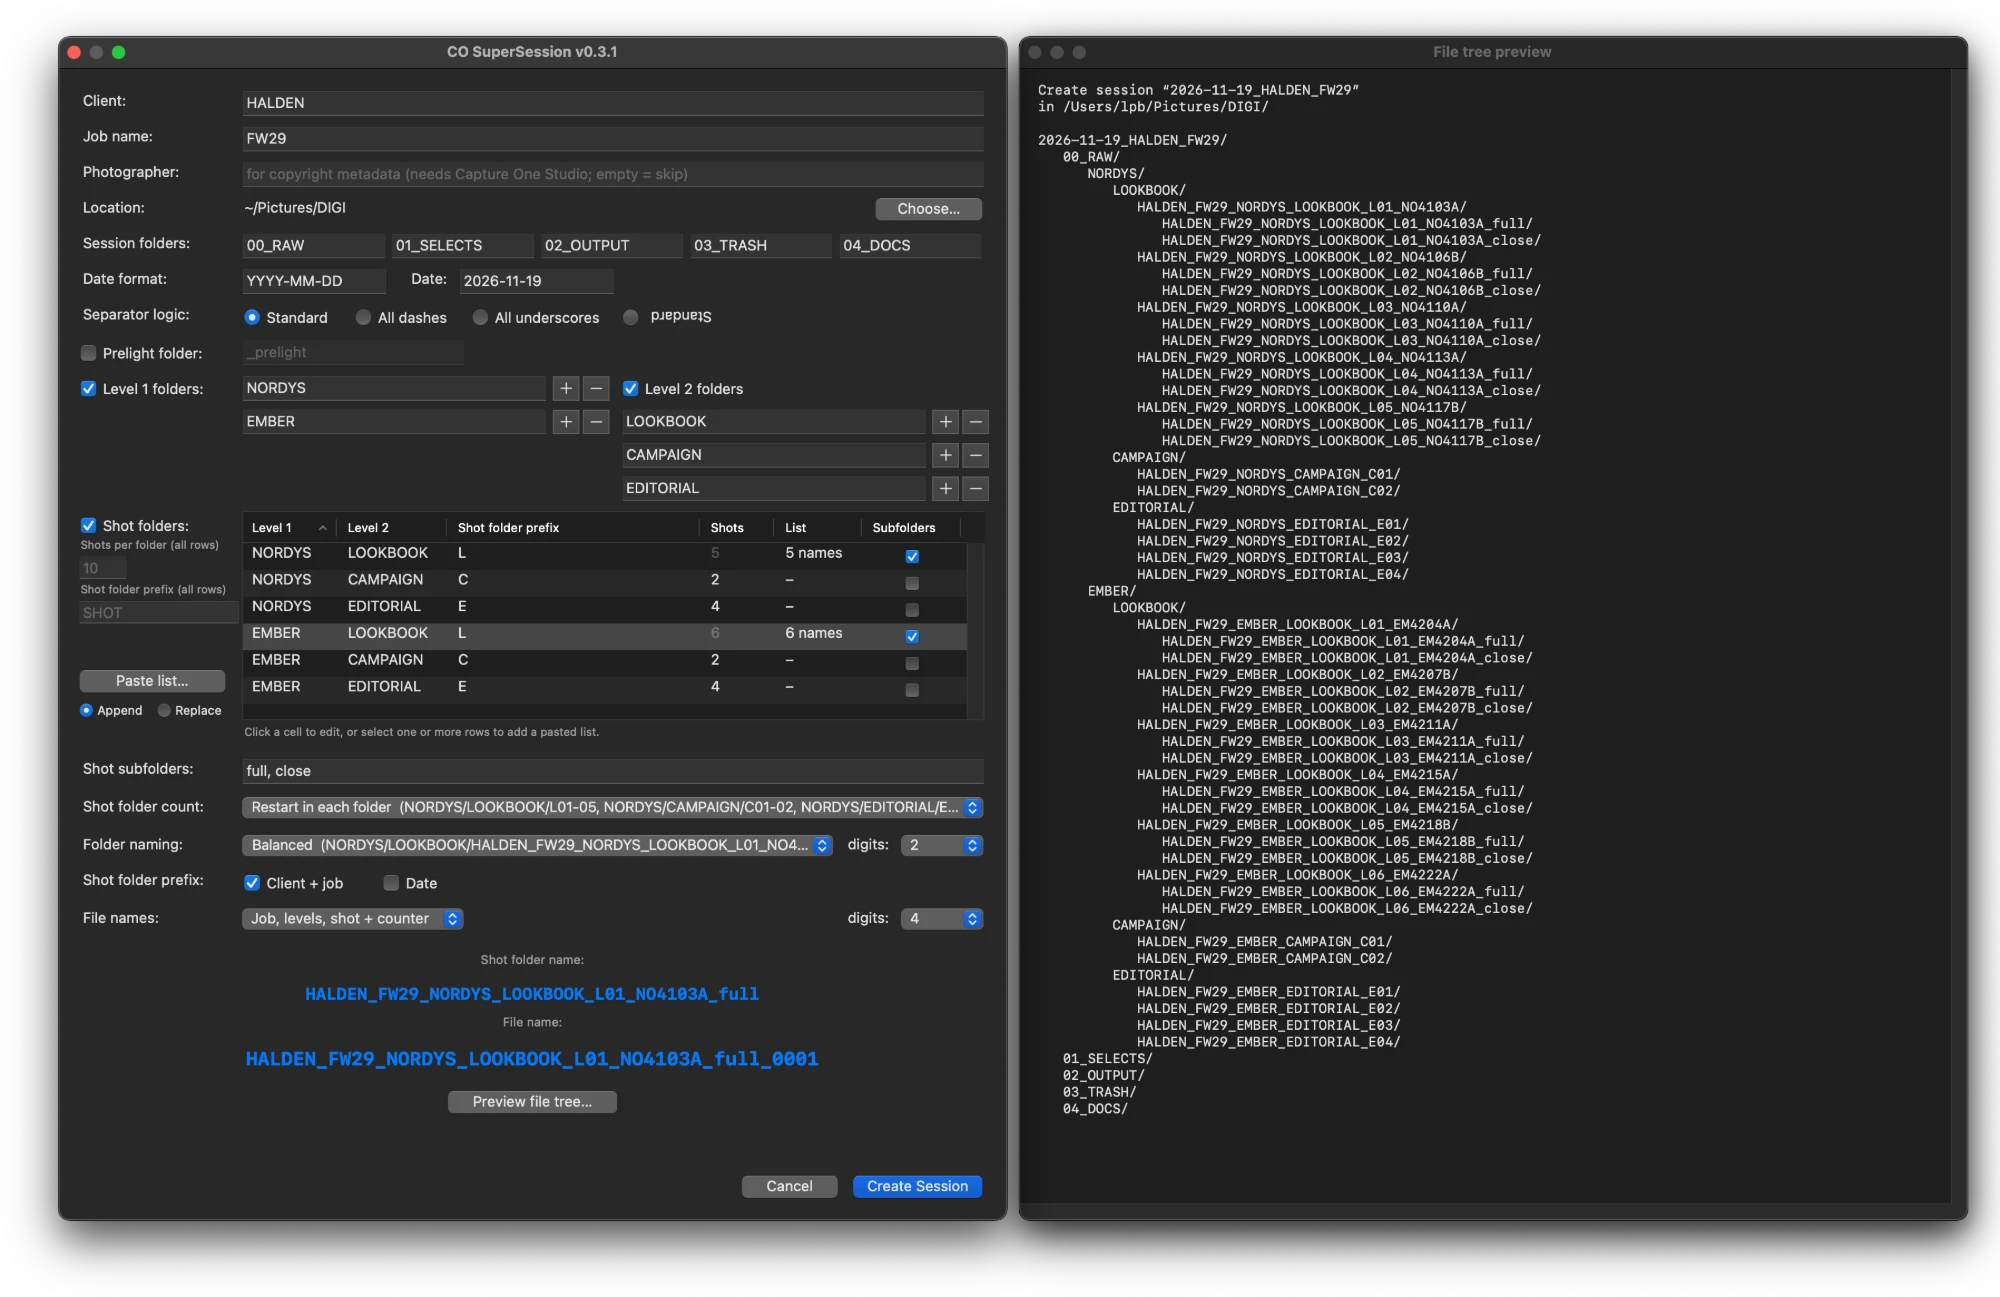
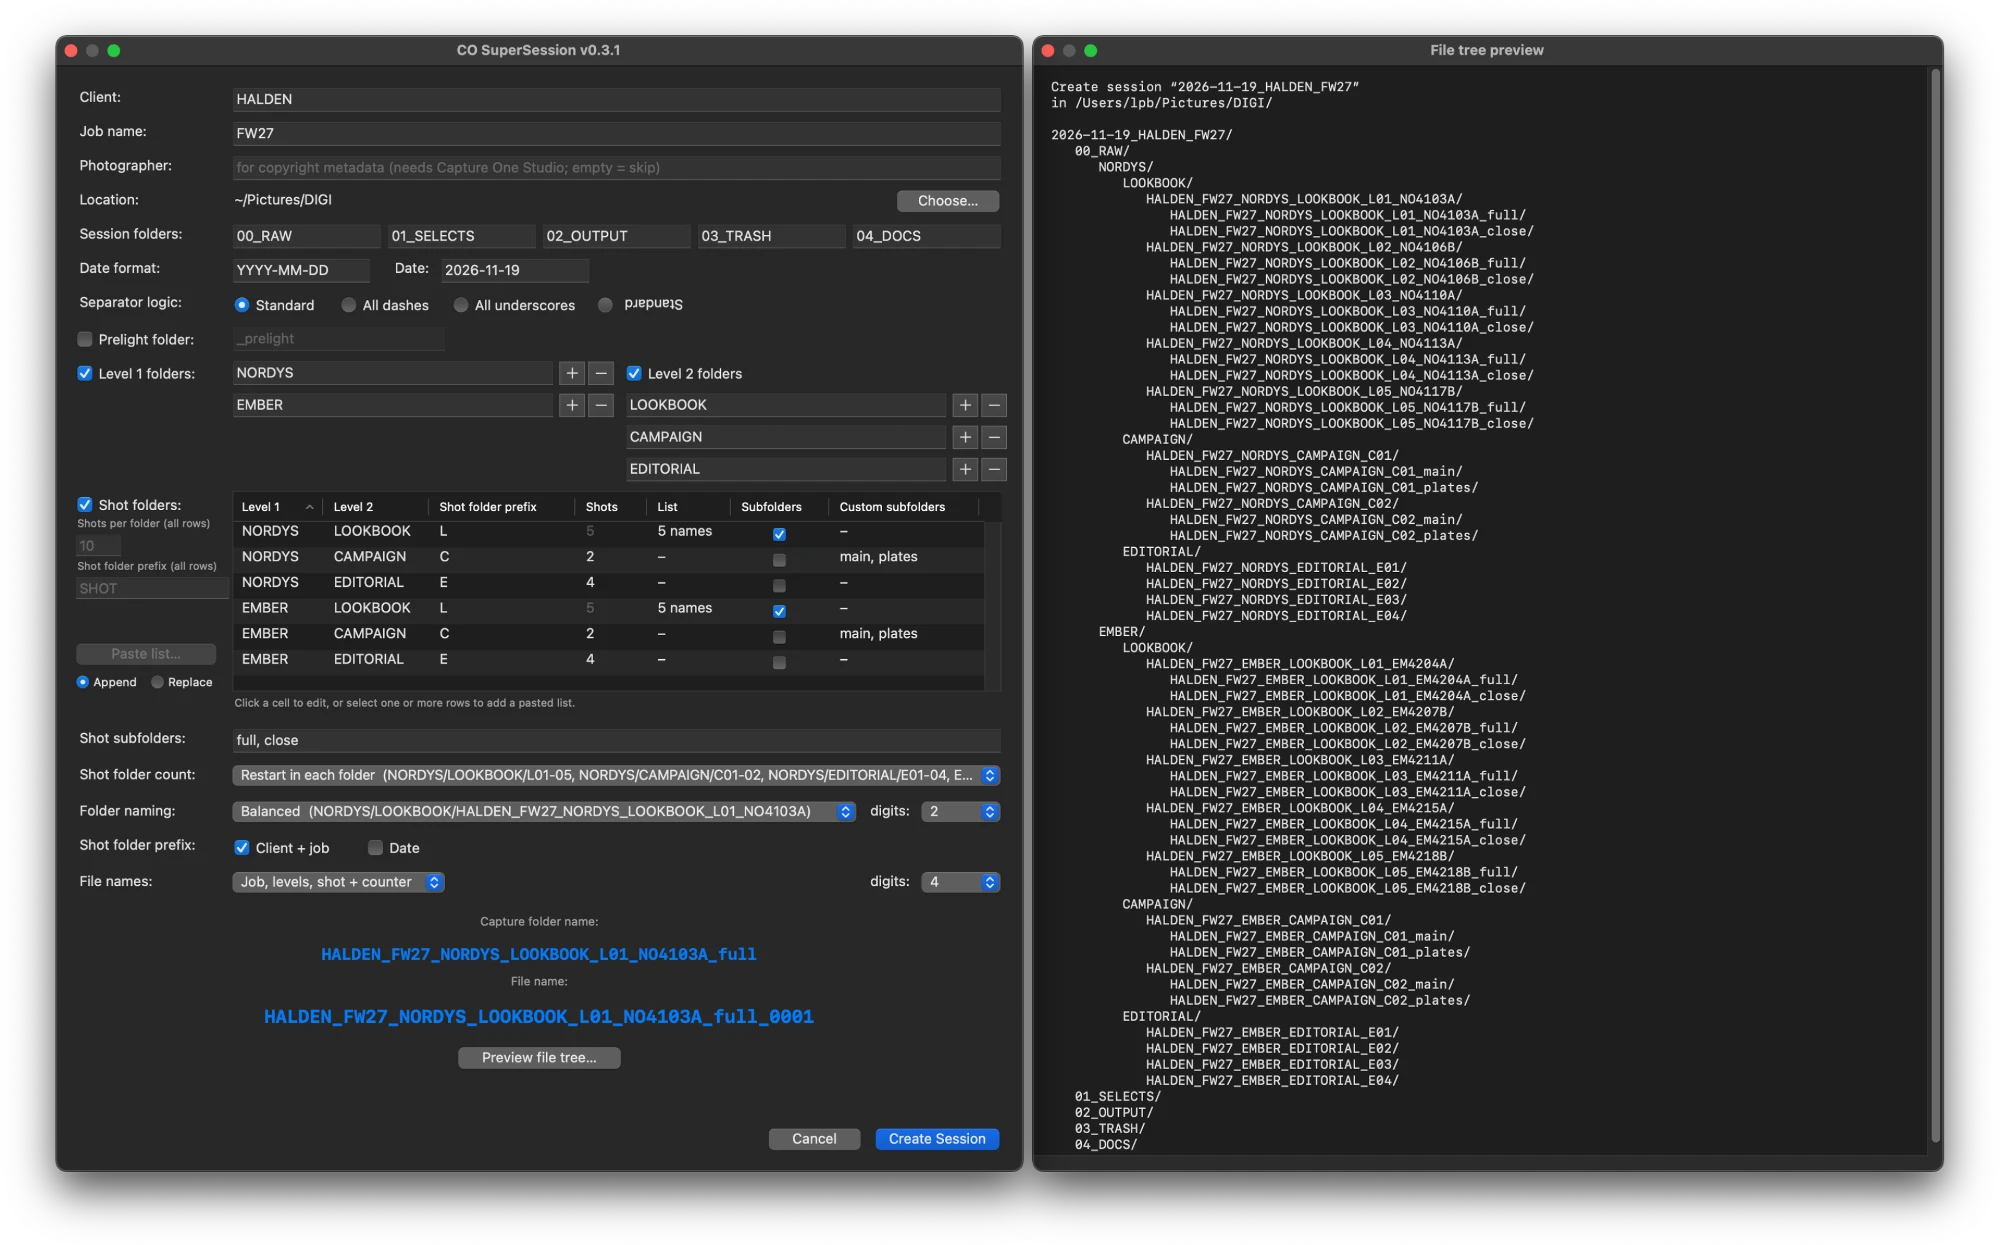
README: update fashion example and screenshot to current settings
- Campaign rows get main and plates custom subfolders
- Five Ember looks, job FW27, session dated 2026-11-19

diff --git a/README.md b/README.md
@@ -37,62 +37,70 @@ A two-day shoot for the lamp brand Lumara, with three key visuals (prefix KV) a 
 └── 04_DOCS/
 ```
 
-A fashion shoot can go a level deeper. Here the brand Halden shoots its FW29 season. It uses two collections, NORDYS and EMBER, as level 1 folders, with LOOKBOOK, CAMPAIGN and EDITORIAL as level 2 folders. The lookbook shots use the prefix L, the campaign shots C and the editorial shots E, and numbering restarts in each folder. The lookbook rows get a pasted list of SKU codes (Paste list, Append), so each look folder carries its SKU, and the number of codes sets the number of looks: five for Nordys, six for Ember. Only the lookbook rows have Subfolders ticked, so each look gets a full and a close subfolder. There is no prelight folder. Folder naming is Balanced with the Shot folder prefix (client + job): the level 1 and level 2 folders keep short names, and each shot folder, and so every capture in it, carries the client, job, collection and level 2 folder. File names use Job, levels, shot + counter:
+A fashion shoot can go a level deeper. Here the brand Halden shoots its FW27 season. It uses two collections, NORDYS and EMBER, as level 1 folders, with LOOKBOOK, CAMPAIGN and EDITORIAL as level 2 folders. The lookbook shots use the prefix L, the campaign shots C and the editorial shots E, and numbering restarts in each folder. The lookbook rows get a pasted list of SKU codes (Paste list, Append), so each look folder carries its SKU, and the number of codes sets the number of looks: five for each collection. Only the lookbook rows have Subfolders ticked, so each look gets a full and a close subfolder. The campaign rows have Custom subfolders instead, so each campaign shot gets a main and a plates subfolder. There is no prelight folder. Folder naming is Balanced with the Shot folder prefix (client + job): the level 1 and level 2 folders keep short names, and each shot folder, and so every capture in it, carries the client, job, collection and level 2 folder. File names use Job, levels, shot + counter:
 
 ```
-2029-02-15_HALDEN_FW29/
+2026-11-19_HALDEN_FW27/
 ├── 00_RAW/
 │   ├── NORDYS/
 │   │   ├── LOOKBOOK/
-│   │   │   ├── HALDEN_FW29_NORDYS_LOOKBOOK_L01_NO4103A/
-│   │   │   │   ├── HALDEN_FW29_NORDYS_LOOKBOOK_L01_NO4103A_full/
-│   │   │   │   └── HALDEN_FW29_NORDYS_LOOKBOOK_L01_NO4103A_close/
-│   │   │   ├── HALDEN_FW29_NORDYS_LOOKBOOK_L02_NO4106B/
-│   │   │   │   ├── HALDEN_FW29_NORDYS_LOOKBOOK_L02_NO4106B_full/
-│   │   │   │   └── HALDEN_FW29_NORDYS_LOOKBOOK_L02_NO4106B_close/
-│   │   │   ├── HALDEN_FW29_NORDYS_LOOKBOOK_L03_NO4110A/
-│   │   │   │   ├── HALDEN_FW29_NORDYS_LOOKBOOK_L03_NO4110A_full/
-│   │   │   │   └── HALDEN_FW29_NORDYS_LOOKBOOK_L03_NO4110A_close/
-│   │   │   ├── HALDEN_FW29_NORDYS_LOOKBOOK_L04_NO4113A/
-│   │   │   │   ├── HALDEN_FW29_NORDYS_LOOKBOOK_L04_NO4113A_full/
-│   │   │   │   └── HALDEN_FW29_NORDYS_LOOKBOOK_L04_NO4113A_close/
-│   │   │   └── HALDEN_FW29_NORDYS_LOOKBOOK_L05_NO4117B/
-│   │   │       ├── HALDEN_FW29_NORDYS_LOOKBOOK_L05_NO4117B_full/
-│   │   │       └── HALDEN_FW29_NORDYS_LOOKBOOK_L05_NO4117B_close/
+│   │   │   ├── HALDEN_FW27_NORDYS_LOOKBOOK_L01_NO4103A/
+│   │   │   │   ├── HALDEN_FW27_NORDYS_LOOKBOOK_L01_NO4103A_full/
+│   │   │   │   └── HALDEN_FW27_NORDYS_LOOKBOOK_L01_NO4103A_close/
+│   │   │   ├── HALDEN_FW27_NORDYS_LOOKBOOK_L02_NO4106B/
+│   │   │   │   ├── HALDEN_FW27_NORDYS_LOOKBOOK_L02_NO4106B_full/
+│   │   │   │   └── HALDEN_FW27_NORDYS_LOOKBOOK_L02_NO4106B_close/
+│   │   │   ├── HALDEN_FW27_NORDYS_LOOKBOOK_L03_NO4110A/
+│   │   │   │   ├── HALDEN_FW27_NORDYS_LOOKBOOK_L03_NO4110A_full/
+│   │   │   │   └── HALDEN_FW27_NORDYS_LOOKBOOK_L03_NO4110A_close/
+│   │   │   ├── HALDEN_FW27_NORDYS_LOOKBOOK_L04_NO4113A/
+│   │   │   │   ├── HALDEN_FW27_NORDYS_LOOKBOOK_L04_NO4113A_full/
+│   │   │   │   └── HALDEN_FW27_NORDYS_LOOKBOOK_L04_NO4113A_close/
+│   │   │   └── HALDEN_FW27_NORDYS_LOOKBOOK_L05_NO4117B/
+│   │   │       ├── HALDEN_FW27_NORDYS_LOOKBOOK_L05_NO4117B_full/
+│   │   │       └── HALDEN_FW27_NORDYS_LOOKBOOK_L05_NO4117B_close/
 │   │   ├── CAMPAIGN/
-│   │   │   ├── HALDEN_FW29_NORDYS_CAMPAIGN_C01/
-│   │   │   └── HALDEN_FW29_NORDYS_CAMPAIGN_C02/
+│   │   │   ├── HALDEN_FW27_NORDYS_CAMPAIGN_C01/
+│   │   │   │   ├── HALDEN_FW27_NORDYS_CAMPAIGN_C01_main/
+│   │   │   │   └── HALDEN_FW27_NORDYS_CAMPAIGN_C01_plates/
+│   │   │   └── HALDEN_FW27_NORDYS_CAMPAIGN_C02/
+│   │   │       ├── HALDEN_FW27_NORDYS_CAMPAIGN_C02_main/
+│   │   │       └── HALDEN_FW27_NORDYS_CAMPAIGN_C02_plates/
 │   │   └── EDITORIAL/
-│   │       ├── HALDEN_FW29_NORDYS_EDITORIAL_E01/
-│   │       ├── HALDEN_FW29_NORDYS_EDITORIAL_E02/
-│   │       ├── HALDEN_FW29_NORDYS_EDITORIAL_E03/
-│   │       └── HALDEN_FW29_NORDYS_EDITORIAL_E04/
+│   │       ├── HALDEN_FW27_NORDYS_EDITORIAL_E01/
+│   │       ├── HALDEN_FW27_NORDYS_EDITORIAL_E02/
+│   │       ├── HALDEN_FW27_NORDYS_EDITORIAL_E03/
+│   │       └── HALDEN_FW27_NORDYS_EDITORIAL_E04/
 │   └── EMBER/
 │       ├── LOOKBOOK/
-│       │   ├── HALDEN_FW29_EMBER_LOOKBOOK_L01_EM4204A/
-│       │   │   ├── HALDEN_FW29_EMBER_LOOKBOOK_L01_EM4204A_full/
-│       │   │   └── HALDEN_FW29_EMBER_LOOKBOOK_L01_EM4204A_close/
-│       │   ├── HALDEN_FW29_EMBER_LOOKBOOK_L02_EM4207B/
-│       │   │   ├── HALDEN_FW29_EMBER_LOOKBOOK_L02_EM4207B_full/
-│       │   │   └── HALDEN_FW29_EMBER_LOOKBOOK_L02_EM4207B_close/
+│       │   ├── HALDEN_FW27_EMBER_LOOKBOOK_L01_EM4204A/
+│       │   │   ├── HALDEN_FW27_EMBER_LOOKBOOK_L01_EM4204A_full/
+│       │   │   └── HALDEN_FW27_EMBER_LOOKBOOK_L01_EM4204A_close/
+│       │   ├── HALDEN_FW27_EMBER_LOOKBOOK_L02_EM4207B/
+│       │   │   ├── HALDEN_FW27_EMBER_LOOKBOOK_L02_EM4207B_full/
+│       │   │   └── HALDEN_FW27_EMBER_LOOKBOOK_L02_EM4207B_close/
 │       │   ├── …
-│       │   └── HALDEN_FW29_EMBER_LOOKBOOK_L06_EM4222A/
-│       │       ├── HALDEN_FW29_EMBER_LOOKBOOK_L06_EM4222A_full/
-│       │       └── HALDEN_FW29_EMBER_LOOKBOOK_L06_EM4222A_close/
+│       │   └── HALDEN_FW27_EMBER_LOOKBOOK_L05_EM4218B/
+│       │       ├── HALDEN_FW27_EMBER_LOOKBOOK_L05_EM4218B_full/
+│       │       └── HALDEN_FW27_EMBER_LOOKBOOK_L05_EM4218B_close/
 │       ├── CAMPAIGN/
-│       │   ├── HALDEN_FW29_EMBER_CAMPAIGN_C01/
-│       │   └── HALDEN_FW29_EMBER_CAMPAIGN_C02/
+│       │   ├── HALDEN_FW27_EMBER_CAMPAIGN_C01/
+│       │   │   ├── HALDEN_FW27_EMBER_CAMPAIGN_C01_main/
+│       │   │   └── HALDEN_FW27_EMBER_CAMPAIGN_C01_plates/
+│       │   └── HALDEN_FW27_EMBER_CAMPAIGN_C02/
+│       │       ├── HALDEN_FW27_EMBER_CAMPAIGN_C02_main/
+│       │       └── HALDEN_FW27_EMBER_CAMPAIGN_C02_plates/
 │       └── EDITORIAL/
-│           ├── HALDEN_FW29_EMBER_EDITORIAL_E01/
+│           ├── HALDEN_FW27_EMBER_EDITORIAL_E01/
 │           ├── …
-│           └── HALDEN_FW29_EMBER_EDITORIAL_E04/
+│           └── HALDEN_FW27_EMBER_EDITORIAL_E04/
 ├── 01_SELECTS/
 ├── 02_OUTPUT/
 ├── 03_TRASH/
 └── 04_DOCS/
 ```
 
-A capture in the close subfolder of the second Ember look could then be named `HALDEN_FW29_EMBER_LOOKBOOK_L02_EM4207B_close_0001`.
+A capture in the close subfolder of the second Ember look could then be named `HALDEN_FW27_EMBER_LOOKBOOK_L02_EM4207B_close_0001`.
 
 When the session is ready, Capture One opens on the first capture folder.
 
